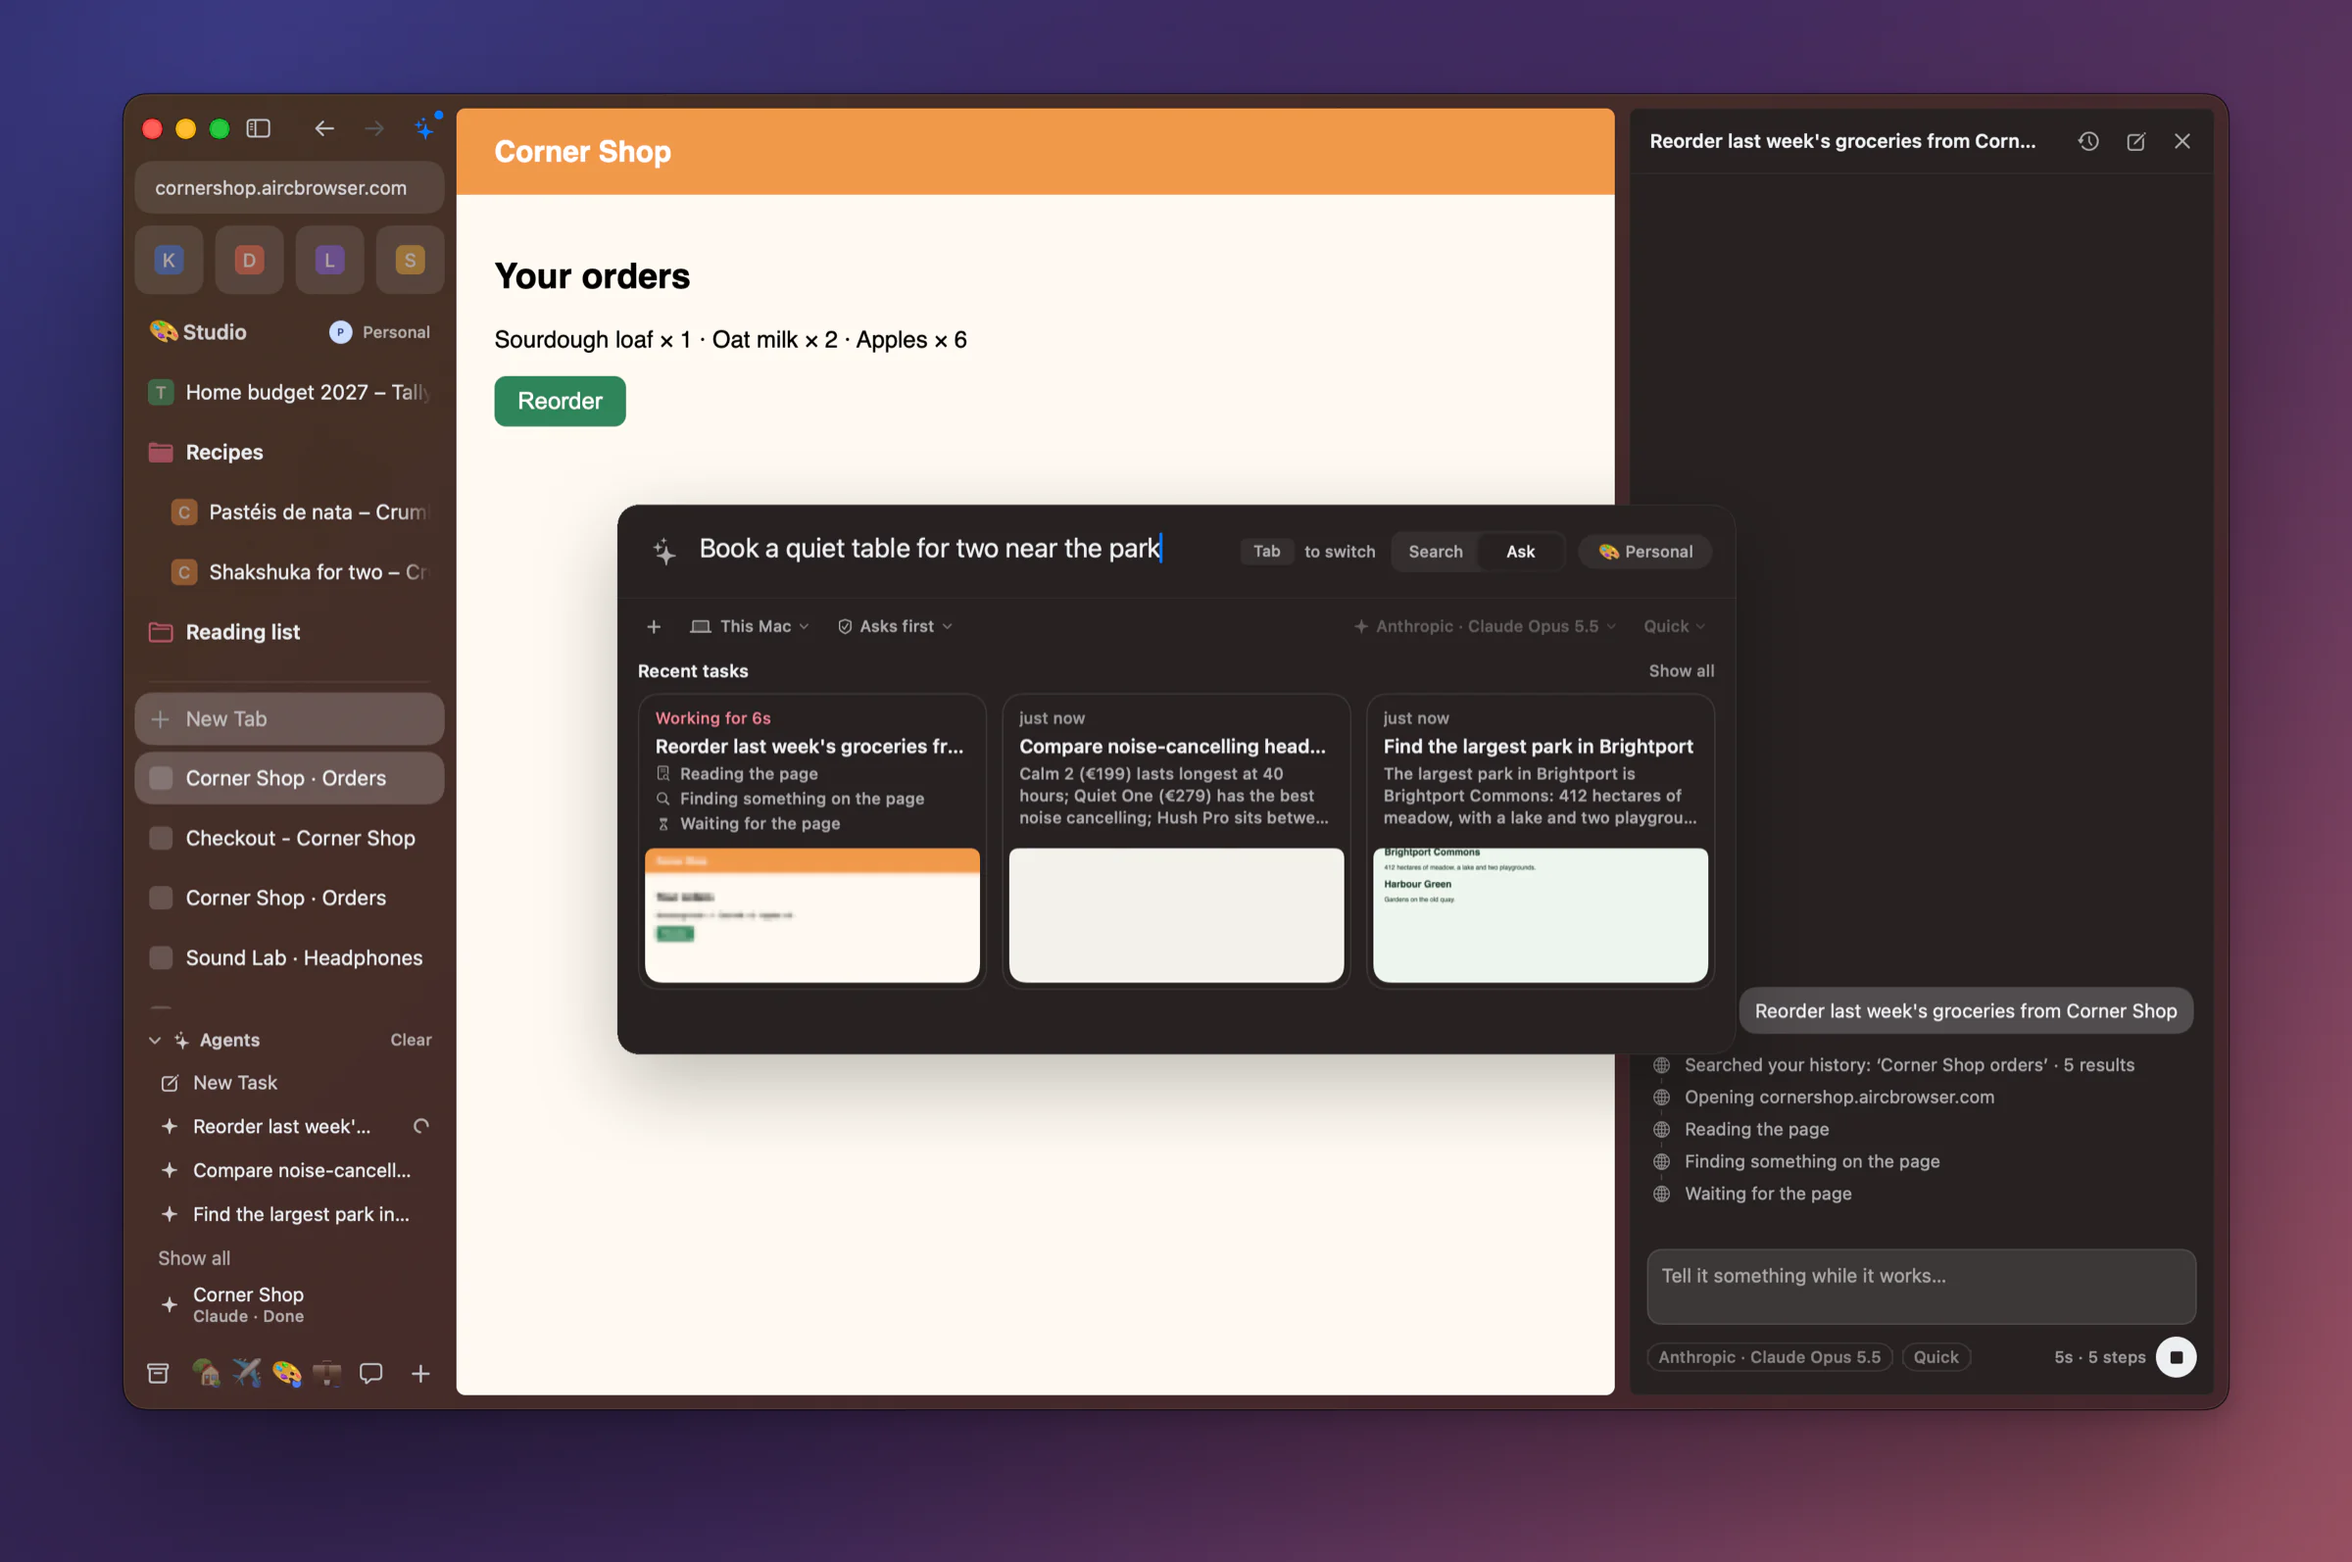
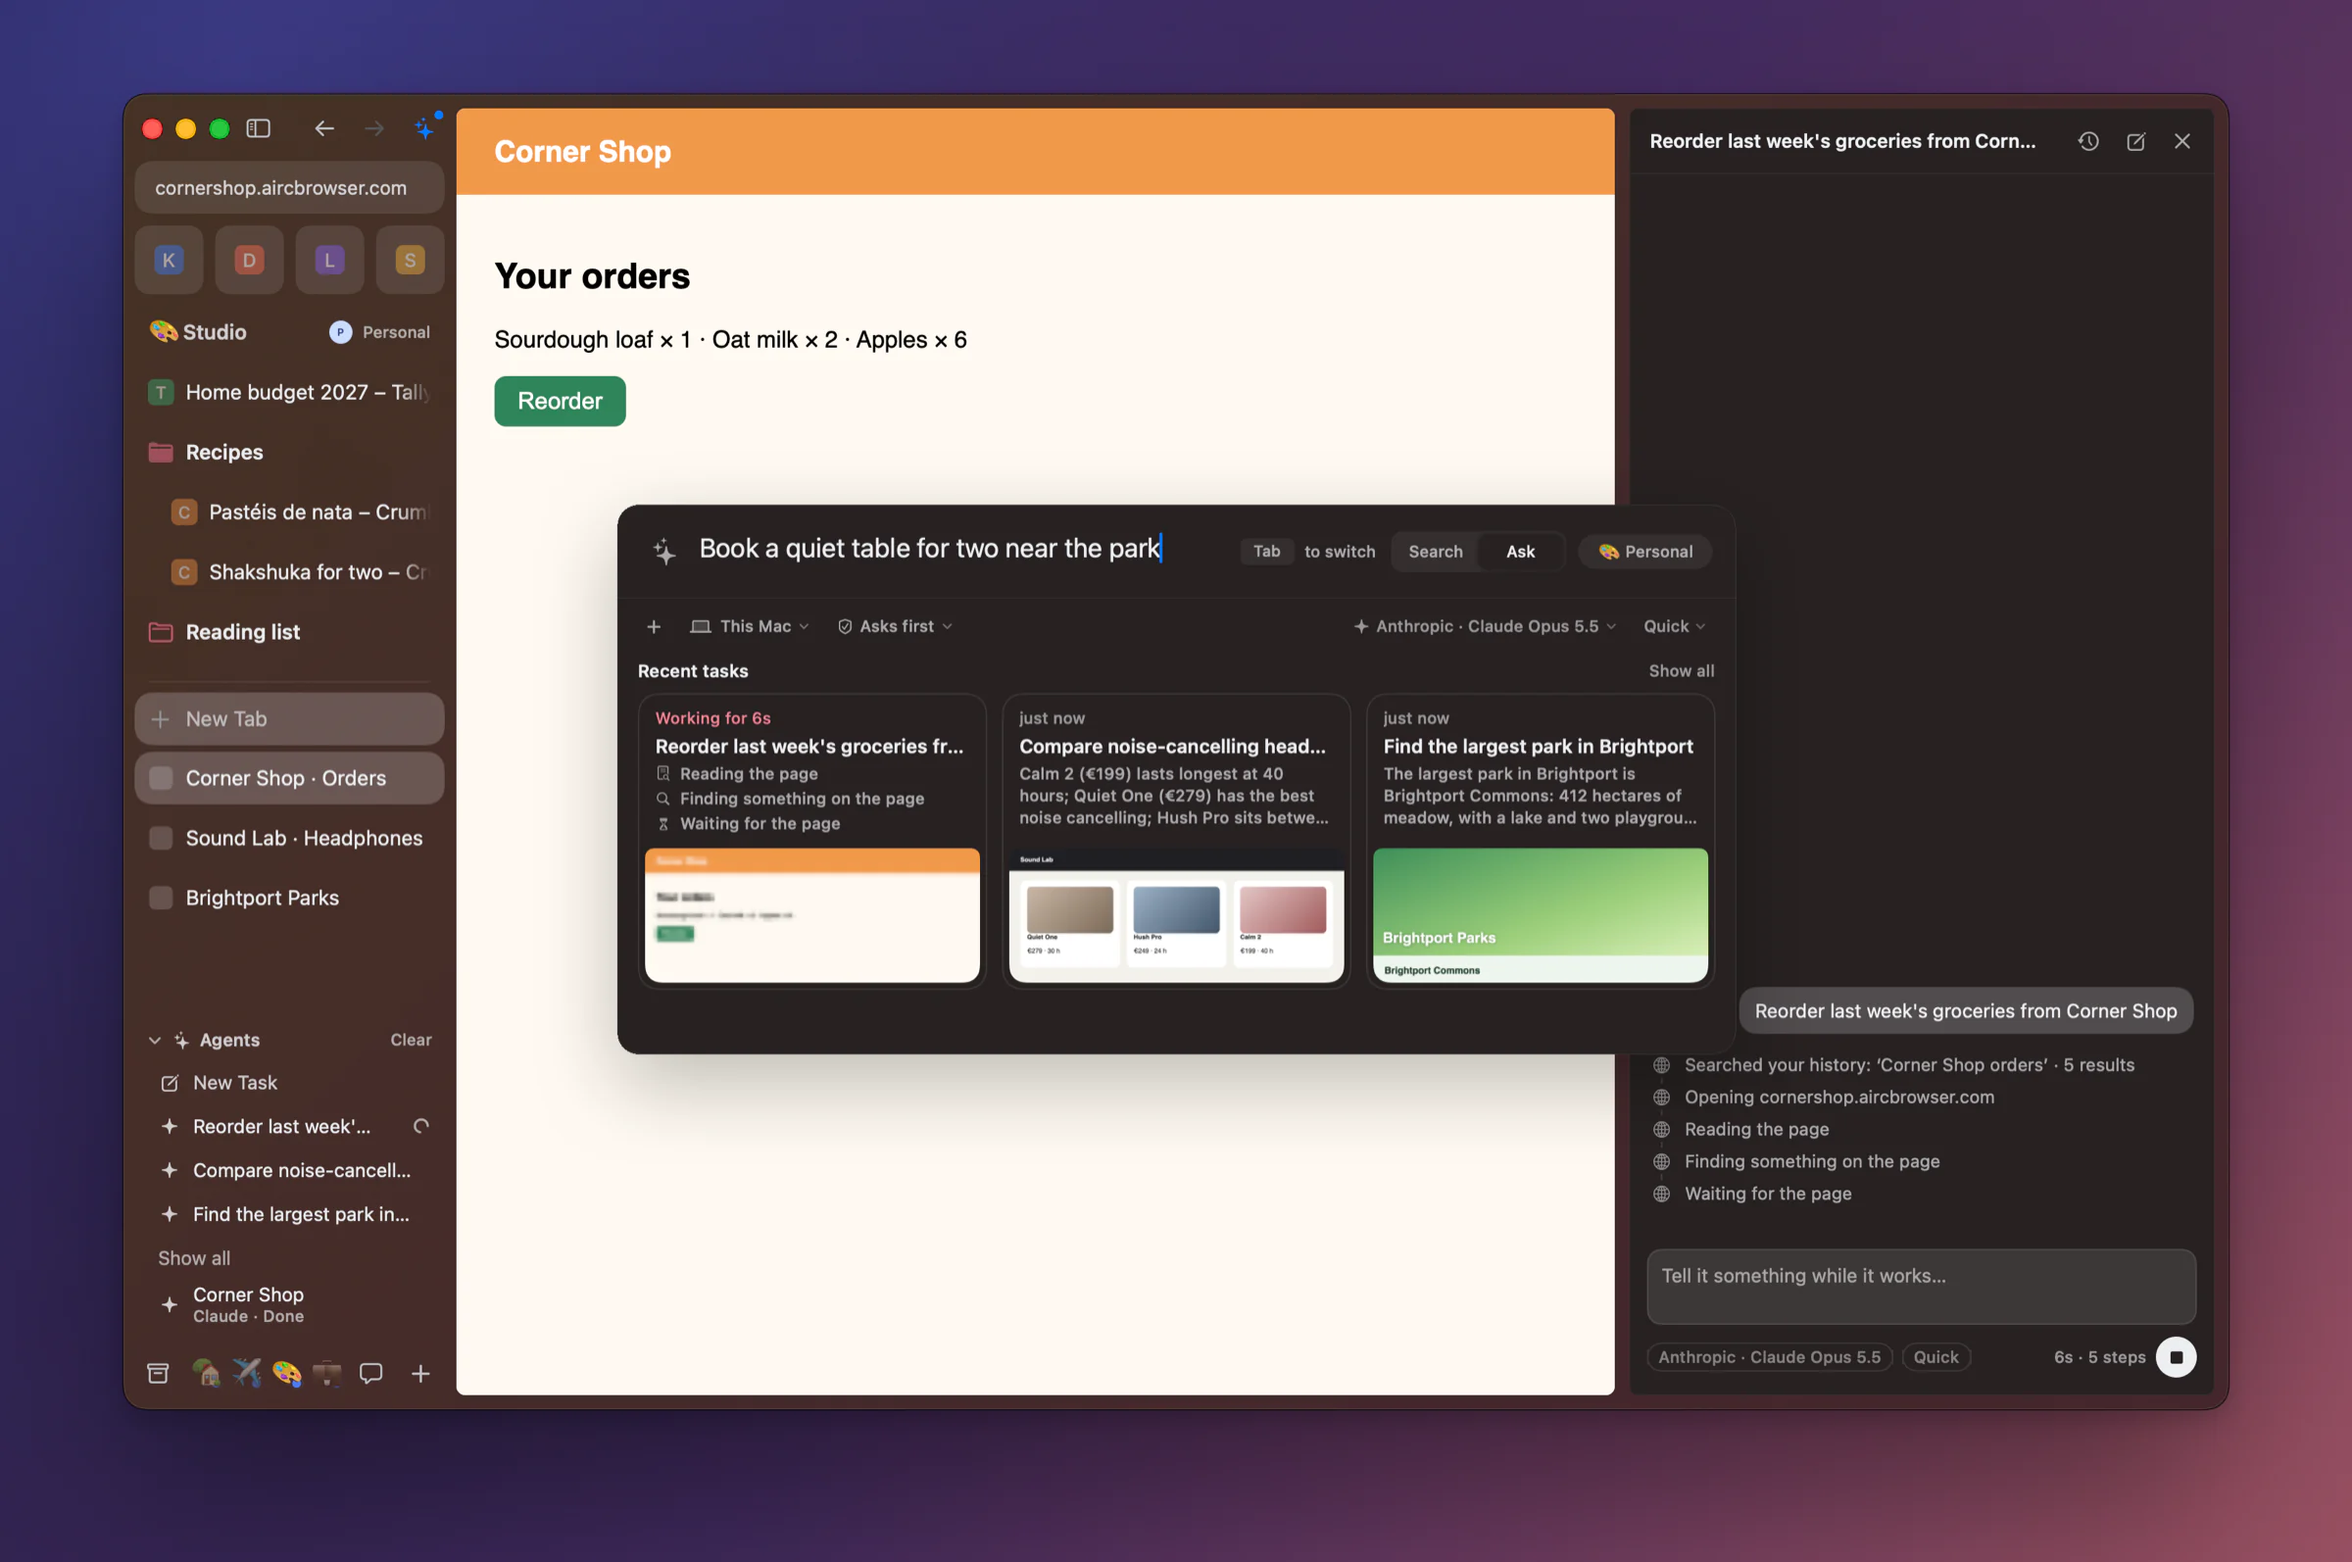
Sync with development (2026-11-27 22:20 UTC)
- Marketing: agent-tasks-ask dark pass closes the light pass's task tabs (no duplicate Today rows)
- Screenshots: agent-tasks-ask light and dark re-taken on 0.1.65 (every Recent-tasks card shows its page)
- social: ⌘T Ask card from the 0.1.65 still; 0.1.65 power post

Changed region(s): [[0.4375, 0.5226, 0.75, 0.6455], [0.0625, 0.5226, 0.1875, 0.6148], [0.0625, 0.5841, 0.0938, 0.6148]]

diff --git a/apps/browser/Sources/Airc/Debug/MarketingAgentTasks.swift b/apps/browser/Sources/Airc/Debug/MarketingAgentTasks.swift
@@ -103,9 +103,13 @@ extension SnapshotRunner {
         // This pass's own tasks (the working one, the approval), deleted at the end, so the dark pass's Recent tasks show
         // the two finished answers again rather than the light pass's stopped tasks.
         var passTasks: [String] = []
+        // shotask2: the Today tabs this pass's tasks open (orders, checkout) are closed at its end too, so the dark
+        // shot's Today lists the same rows as the light one (no second "Corner Shop · Orders", no "Checkout").
+        var tabsBefore: Set<String> = []
         for dark in [false, true] {
             let sfx = dark ? "-dark" : ""
             run { [self] in
+                tabsBefore = Set(c.store.todayTabs(ofSpace: c.currentSpaceID).map(\.id))
                 if dark { appearanceBefore = c.store.space(c.currentSpaceID)?.theme.appearance }
                 NSApp.appearance = NSAppearance(named: dark ? .darkAqua : .aqua)
                 if dark { try? c.store.updateSpace(c.currentSpaceID) { $0.theme.appearance = .dark } }
@@ -159,6 +163,10 @@ extension SnapshotRunner {
             }
             wait(0.4)
             run { for id in passTasks { AgentTaskRecorder.shared.delete(id) }; passTasks = [] }
+            wait(0.4)
+            run { [self] in
+                for t in c.store.todayTabs(ofSpace: c.currentSpaceID) where !tabsBefore.contains(t.id) { c.closeTab(t.id) }
+            }
             wait(0.4)
         }
         run { [self] in

diff --git a/assets/screenshots/README.md b/assets/screenshots/README.md
@@ -143,8 +143,8 @@ profiles through Create Profile instead).
 | `agent-pane-approval-dark.webp` | Waiting for your OK, dark | The same approval in a dark Space | 2026-11-19 | test build (2ca546f4 + Stop glyph) |
 | `agent-pane-connect.webp` | Connect your AI | The agent pane's first run: Use your ChatGPT subscription (Codex), your own Claude Code, then the two API keys, each with its set-up step | 2026-11-20 | test build (agentux2: ChatGPT subscription first) |
 | `agent-pane-connect-dark.webp` | Connect your AI, dark | The same first-run card in a dark Space | 2026-11-20 | test build (agentux2: ChatGPT subscription first) |
-| `agent-tasks-ask.webp` | Ask from the Command Bar | ⌘T, then Tab: Ask mode with the chips (attach a tab, this Mac, asks first, provider, effort) and Recent tasks as cards: one working now with its live page, two finished with their answers (synthetic sites, scripted model) | 2026-11-26 | 202611260607 (d06d9ee7) |
-| `agent-tasks-ask-dark.webp` | Ask from the Command Bar, dark | The same Ask mode and Recent tasks in a dark Space | 2026-11-26 | 202611260607 (d06d9ee7) |
+| `agent-tasks-ask.webp` | Ask from the Command Bar | ⌘T, then Tab: Ask mode with the chips (attach a tab, this Mac, asks first, provider, effort) and Recent tasks as cards: one working now with its live page, two finished with their answers (synthetic sites, scripted model) | 2026-11-27 | 202611272208 (9158e404) |
+| `agent-tasks-ask-dark.webp` | Ask from the Command Bar, dark | The same Ask mode and Recent tasks in a dark Space | 2026-11-27 | 202611272208 (9158e404) |
 | `agent-task-view.webp` | A task, full width | A task in its own tab: the steps on a timeline (a search of your history with what it found, the page each step opened), the agent's page floating live beside them, and the composer with its chips and Stop; the sidebar lists each task once, the running one with a spinner | 2026-11-24 | test build (agentrows: one row per task) |
 | `agent-task-view-dark.webp` | A task, full width, dark | The same task view in a dark Space | 2026-11-24 | test build (agentrows: one row per task) |
 | `agent-task-approval.webp` | Waiting for your OK, in the task | The task view asking “Pay on cornershop…?” above the composer with Deny and Allow once, before anything is paid | 2026-11-24 | test build (agentrows: one row per task) |
